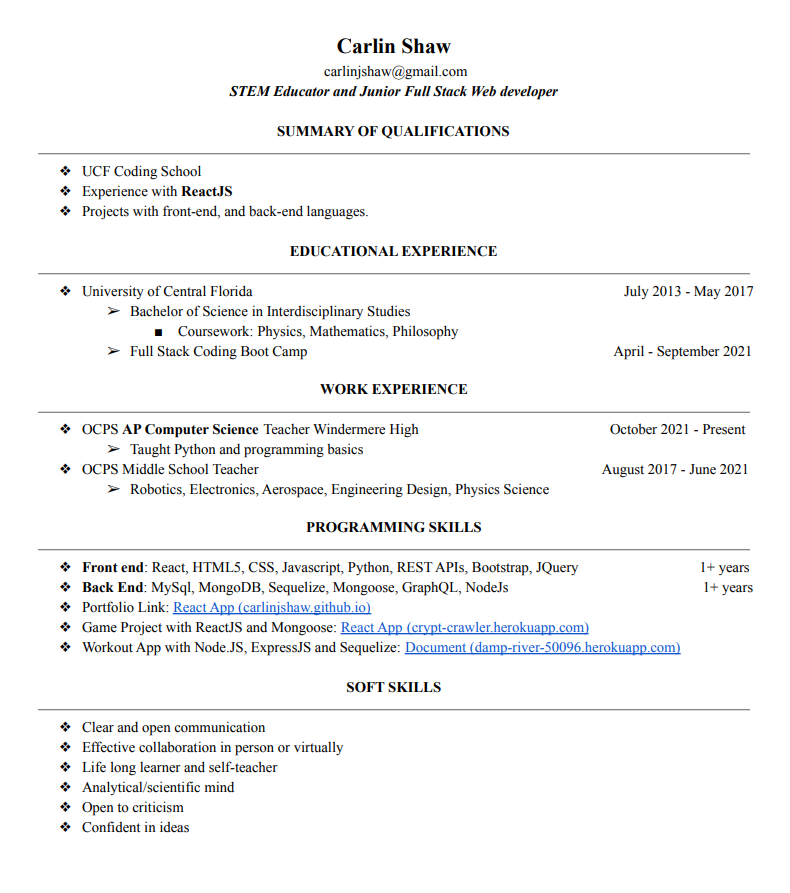
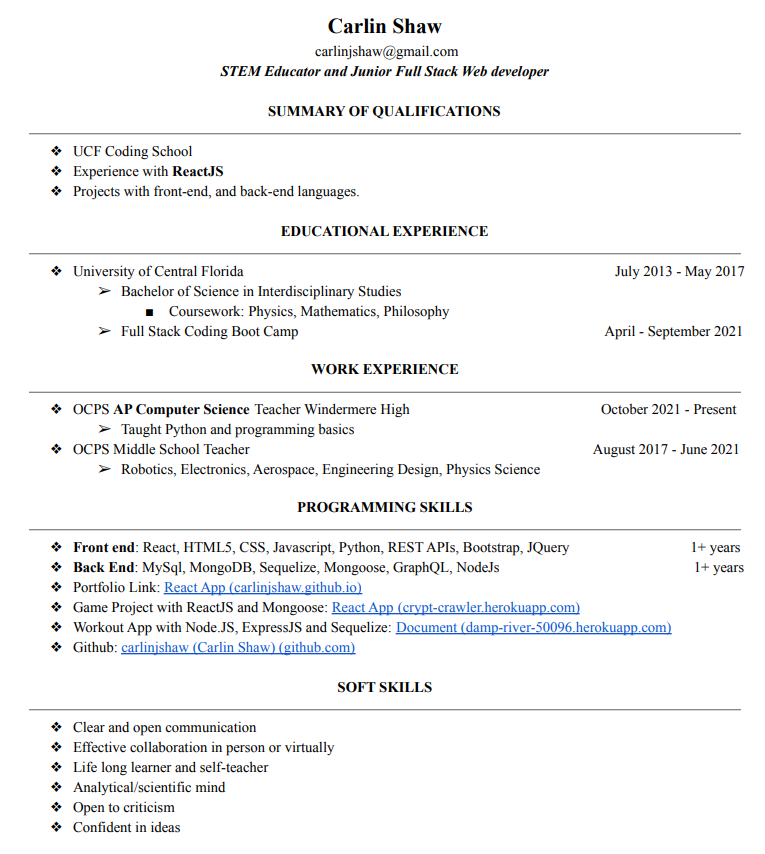
new download button in resume; gitbuh image button in work

diff --git a/src/App.css b/src/App.css
@@ -101,11 +101,15 @@ border: solid;
   padding-block: 50px;
 }
 
-
+/* the following are for the work page */
 .workPage {
   background-color: rgb(73, 129, 167);
   width: 100vw;
   min-height: 100vh;
+}
+.work-mvs-img {
+  width: 25px;
+  height: 25px;
 }
 
 .connect-page {
@@ -138,8 +142,66 @@ border: solid;
 }
 
 .resume {
-  margin: 70px;
+  margin: 20px;
   border-radius: 15px;
   border: solid;
   border-color: black;
+}
+
+.resume:hover{
+  opacity:0.6;
+}
+
+
+button {
+  font-size: 2em;
+  background: rgb(57, 104, 134);
+  
+  border: 0.25rem solid black;
+  padding: 0.85em 0.75em;
+  margin: 1rem;
+  position: relative;
+  z-index: 1;
+  overflow: hidden;  
+}
+
+button:hover {
+  color: black;
+  text-decoration: none;
+}
+
+button::after {
+  content: "";
+  background: #ecf0f1;
+  position: absolute;
+  z-index: -1;
+  padding: 0.85em 0.75em;
+  display: block;
+}
+
+button[class^="slide"]::after {
+  transition: all 0.35s;
+}
+
+button[class^="slide"]:hover::after {
+  left: 0;
+  right: 0;
+  top: 0;
+  bottom: 0;
+  transition: all 0.35s;
+}
+
+button.slide_from_top::after {
+  left: 0;
+  right: 0;
+  top: -100%;
+  bottom: 100%;
+}
+
+.resume-button {
+  margin-top: 30px;
+}
+
+a {
+  text-decoration: none !important;
 }

diff --git a/src/components/Resume.js b/src/components/Resume.js
@@ -1,20 +1,19 @@
 import React from 'react';
 import resume from '../assets/Carlin_Shaw_Developer_Resume.pdf'
-import firstImg from '../assets/first_img.PNG'
+import resume_pic from '../assets/resume.png'
 
 function Resume(props) {
     function isExpanded() {
         if(props.currentPage === "Resume") {
             return (
               <div className="resume-page">
-                
-                  <h1></h1>
-                  <iframe className= 'resume'
-                    src={resume}
-                    width="50%"
-                    height="700px"
-                  ></iframe>
-                
+                <div className="resume-button">
+                  <button class="slide_from_top">
+                  <a href={resume} >Download</a>
+                  </button>
+                </div>
+
+                <img className="resume" src={resume_pic}></img>
               </div>
             );
         } else {

diff --git a/src/components/Work.js b/src/components/Work.js
@@ -6,7 +6,7 @@ import sqlProject from '../assets/sql_inquirer_project.PNG'
 import workoutProject from '../assets/workout-app.PNG'
 import weather from '../assets/weather-api.PNG'
 import cryptGame from '../assets/crypt_crawler.png'
-
+import githubSymbol from '../assets/github-153-675523.png'
 function Work(props) {
 
   if(props.currentPage === "Work") {
@@ -18,7 +18,10 @@ function Work(props) {
           <div class="item">
               <h4>MVC Blog</h4> 
               <a href="https://calm-basin-00430.herokuapp.com/">Site</a> 
-              <a href="https://github.com/carlinjshaw/MVC-cshaw">Github</a> 
+              
+              <a href="https://github.com/carlinjshaw/MVC-cshaw"><img className='work-mvs-img' src={githubSymbol}></img></a> 
+              
+              
               Uses Sequelize, Express, MVC format. 
             <img class="projectImages" src={mvc}/>
           </div>
